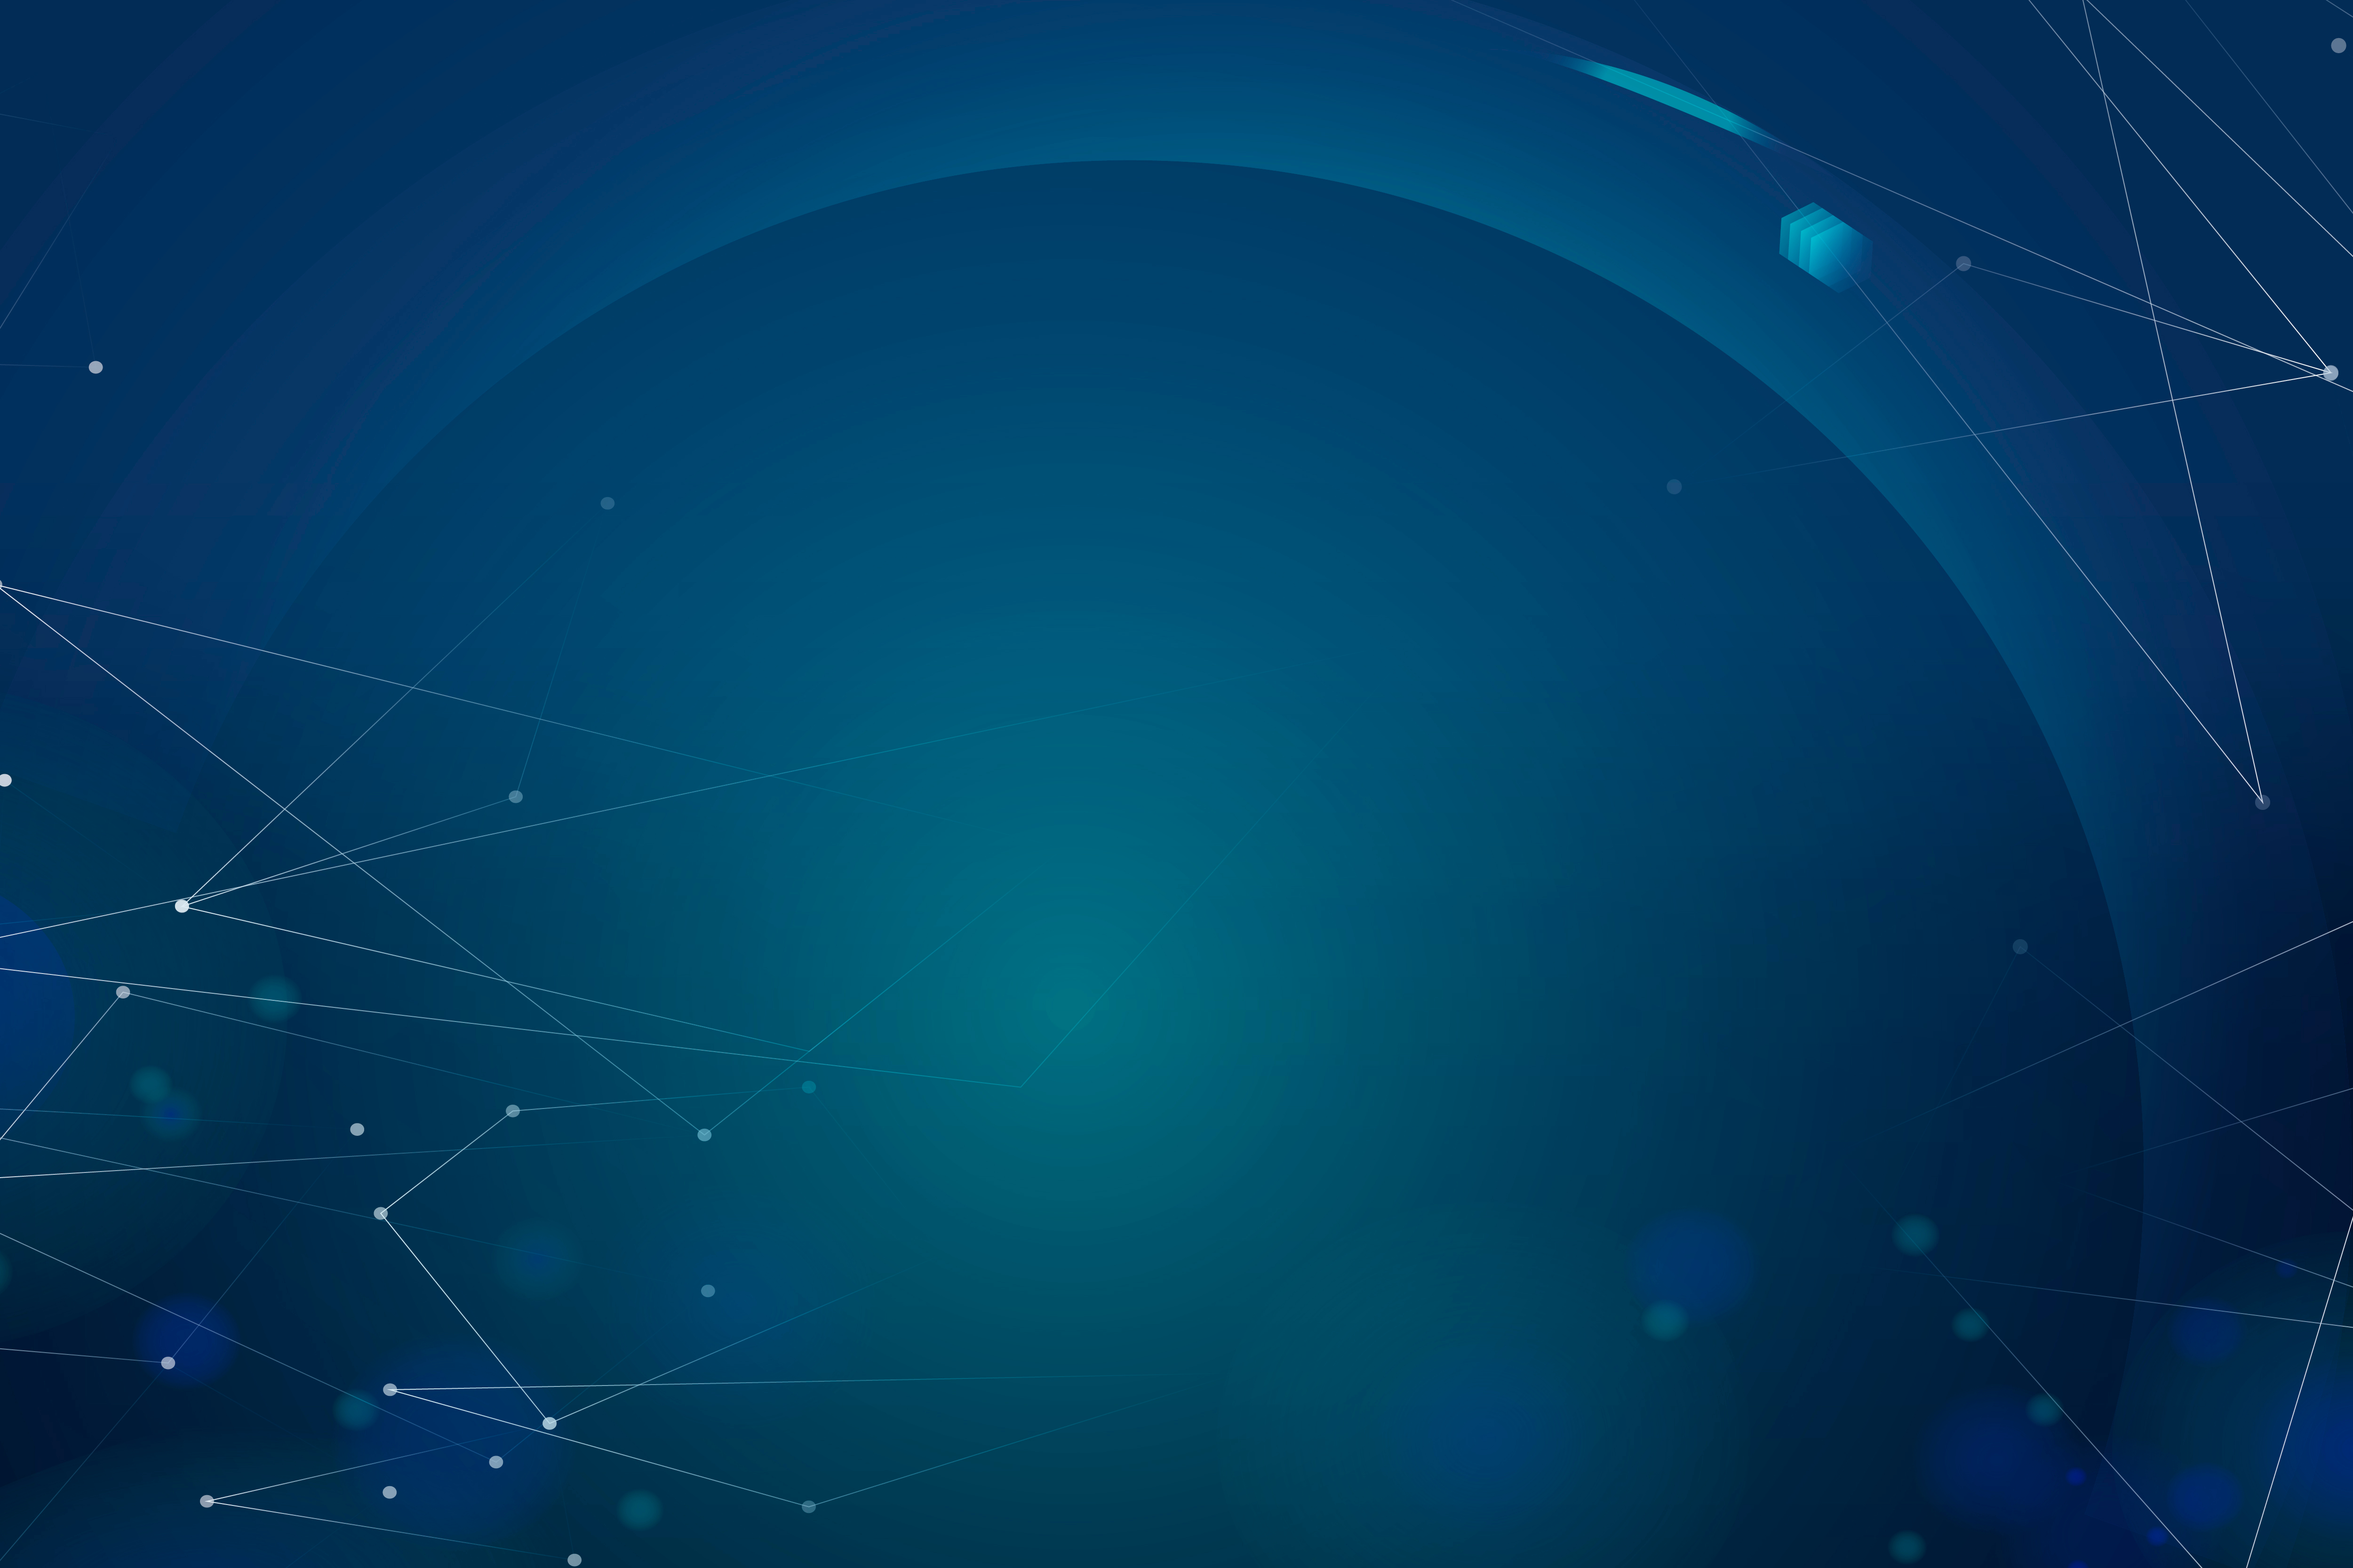
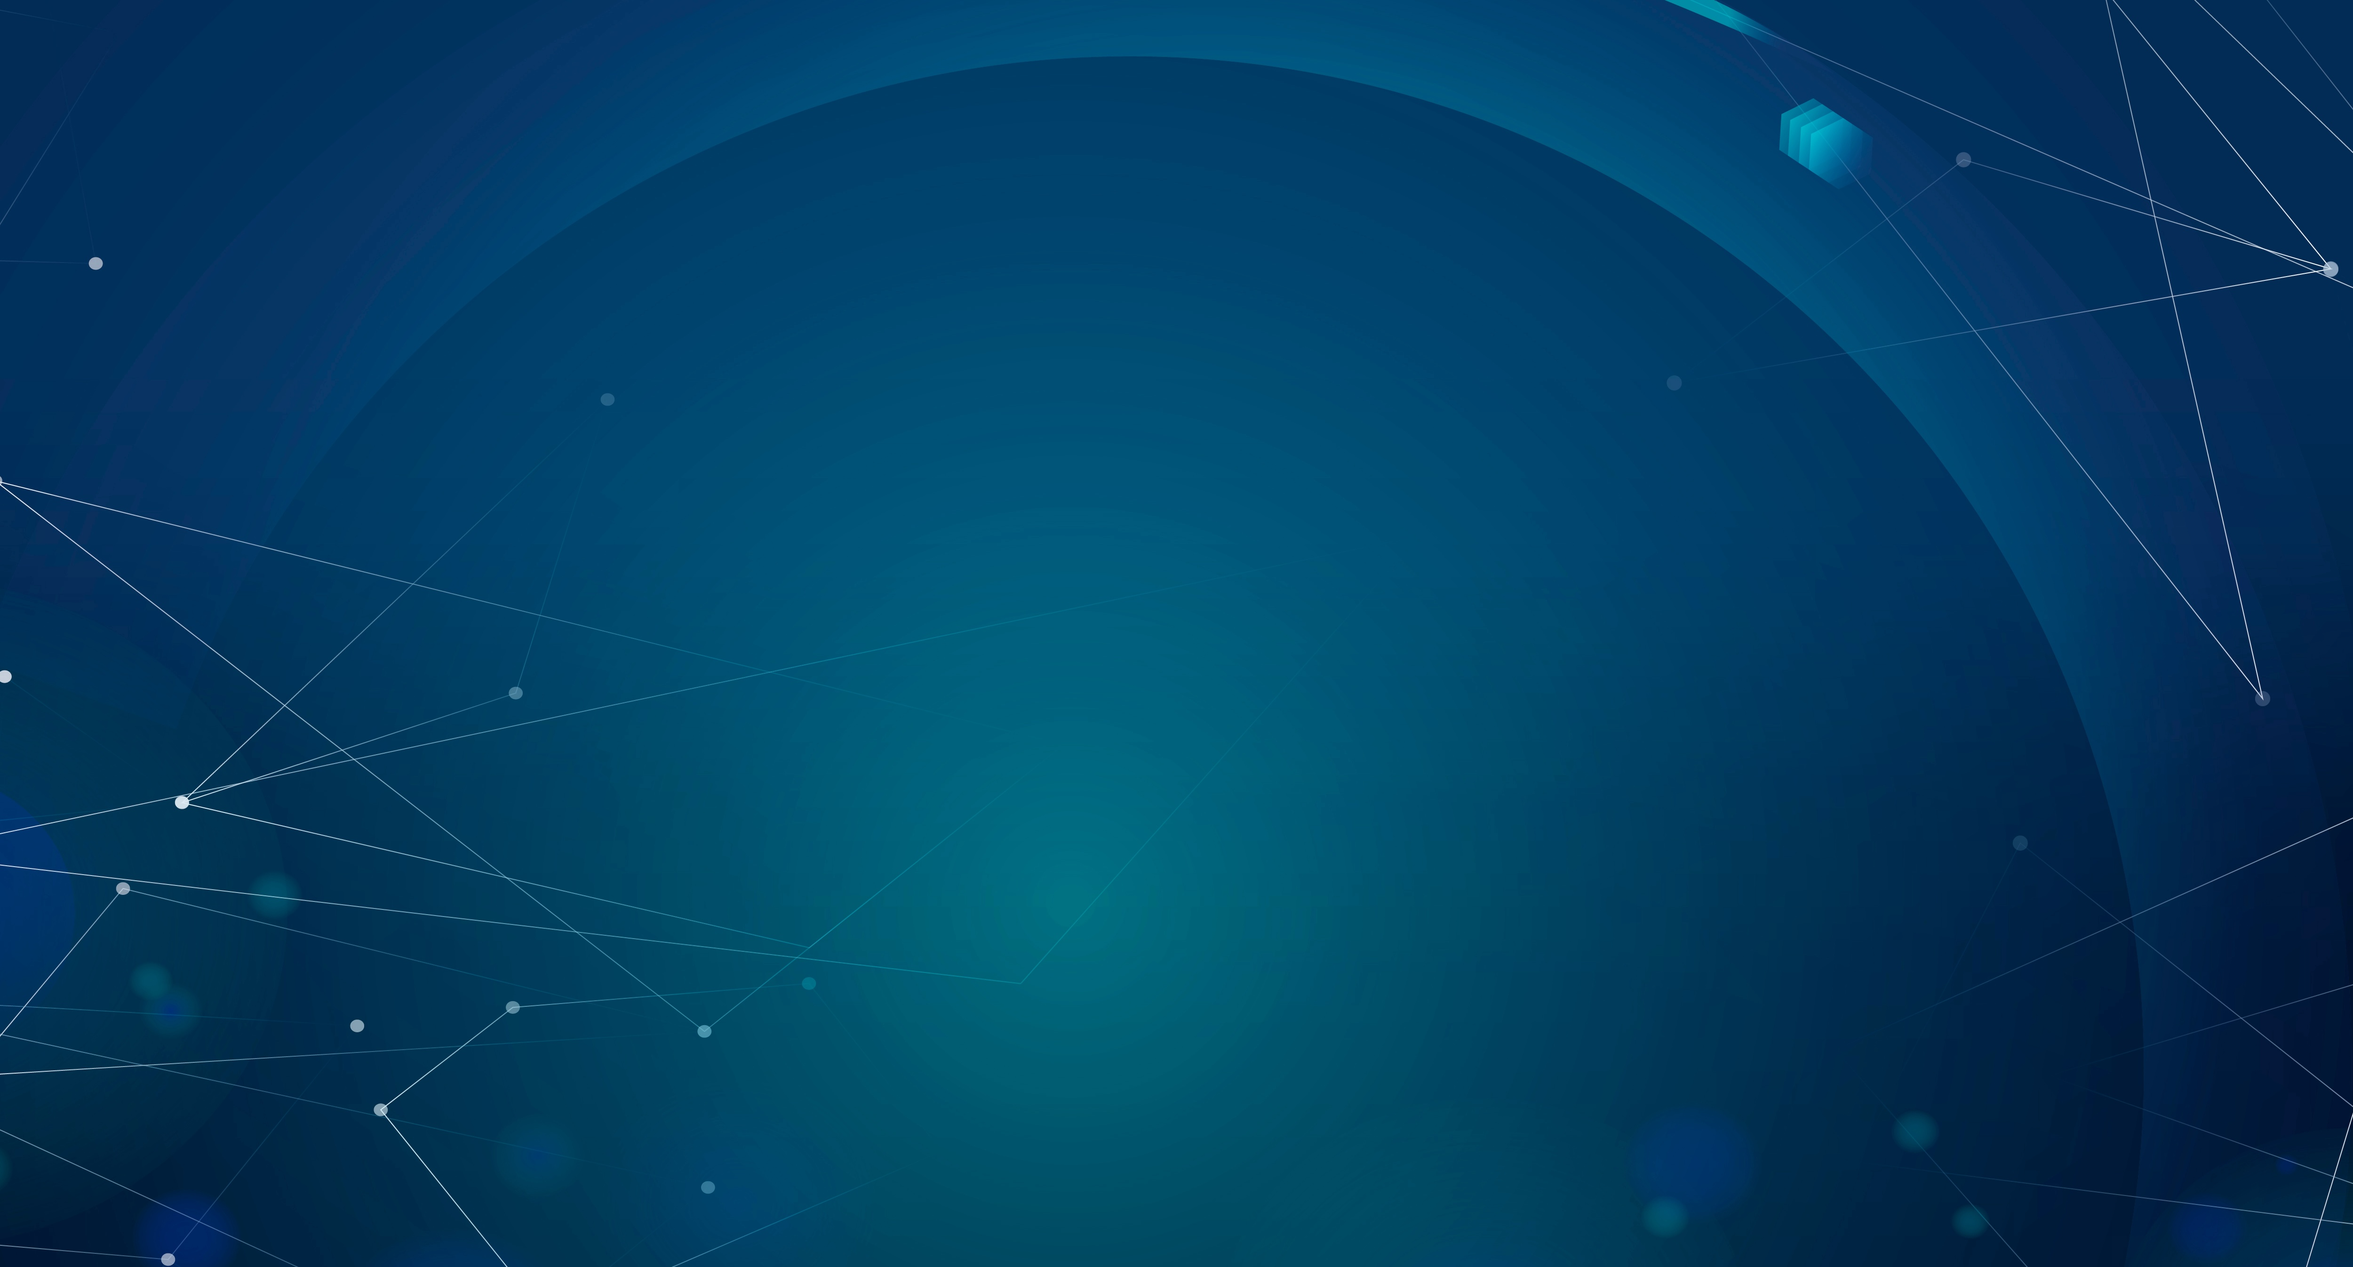
welcome page photo update

diff --git a/src/components/WelcomeCard.jsx b/src/components/WelcomeCard.jsx
@@ -1,23 +1,25 @@
-import React from 'react'
-import image from "../images/welcome-img.jpg"
+import React from "react";
+import image from "../images/welcome-img.jpg";
 
 const Welcome = () => {
   return (
-    <div className="relative w-full h-screen flex justify-center items-center mb-10">
+    <div className="relative w-full h-screen flex items-center justify-center">
       <img
         src={image}
         alt="welcome-img"
-        className=""
-        style={{ opacity: 0.9 }}
+        className="absolute w-full h-full object-cover z-0"
+        style={{ opacity: 0.85 }}
       />
-      <div className="absolute text-center text-white">
-        <h1 className="text-4xl font-bold mb-4">Welcome to World Devs</h1>
-        <p className="text-lg mb-6">
+      <div className="relative z-10 text-center text-white p-4">
+        <h1 className="text-5xl md:text-6xl font-bold mb-6 drop-shadow-lg">
+          Welcome to World Devs
+        </h1>
+        <p className="text-lg md:text-xl mb-8 drop-shadow-lg">
           Innovating the future, one line of code at a time.
         </p>
         <button
-          style={{ backgroundColor: '#636AE8' }}
-          className="text-white px-6 py-3 rounded-lg"
+          style={{ backgroundColor: "#636AE8" }}
+          className="text-white px-8 py-4 rounded-lg font-semibold text-lg hover:bg-[#4e58c9] transition-colors duration-300"
         >
           Explore Now
         </button>
